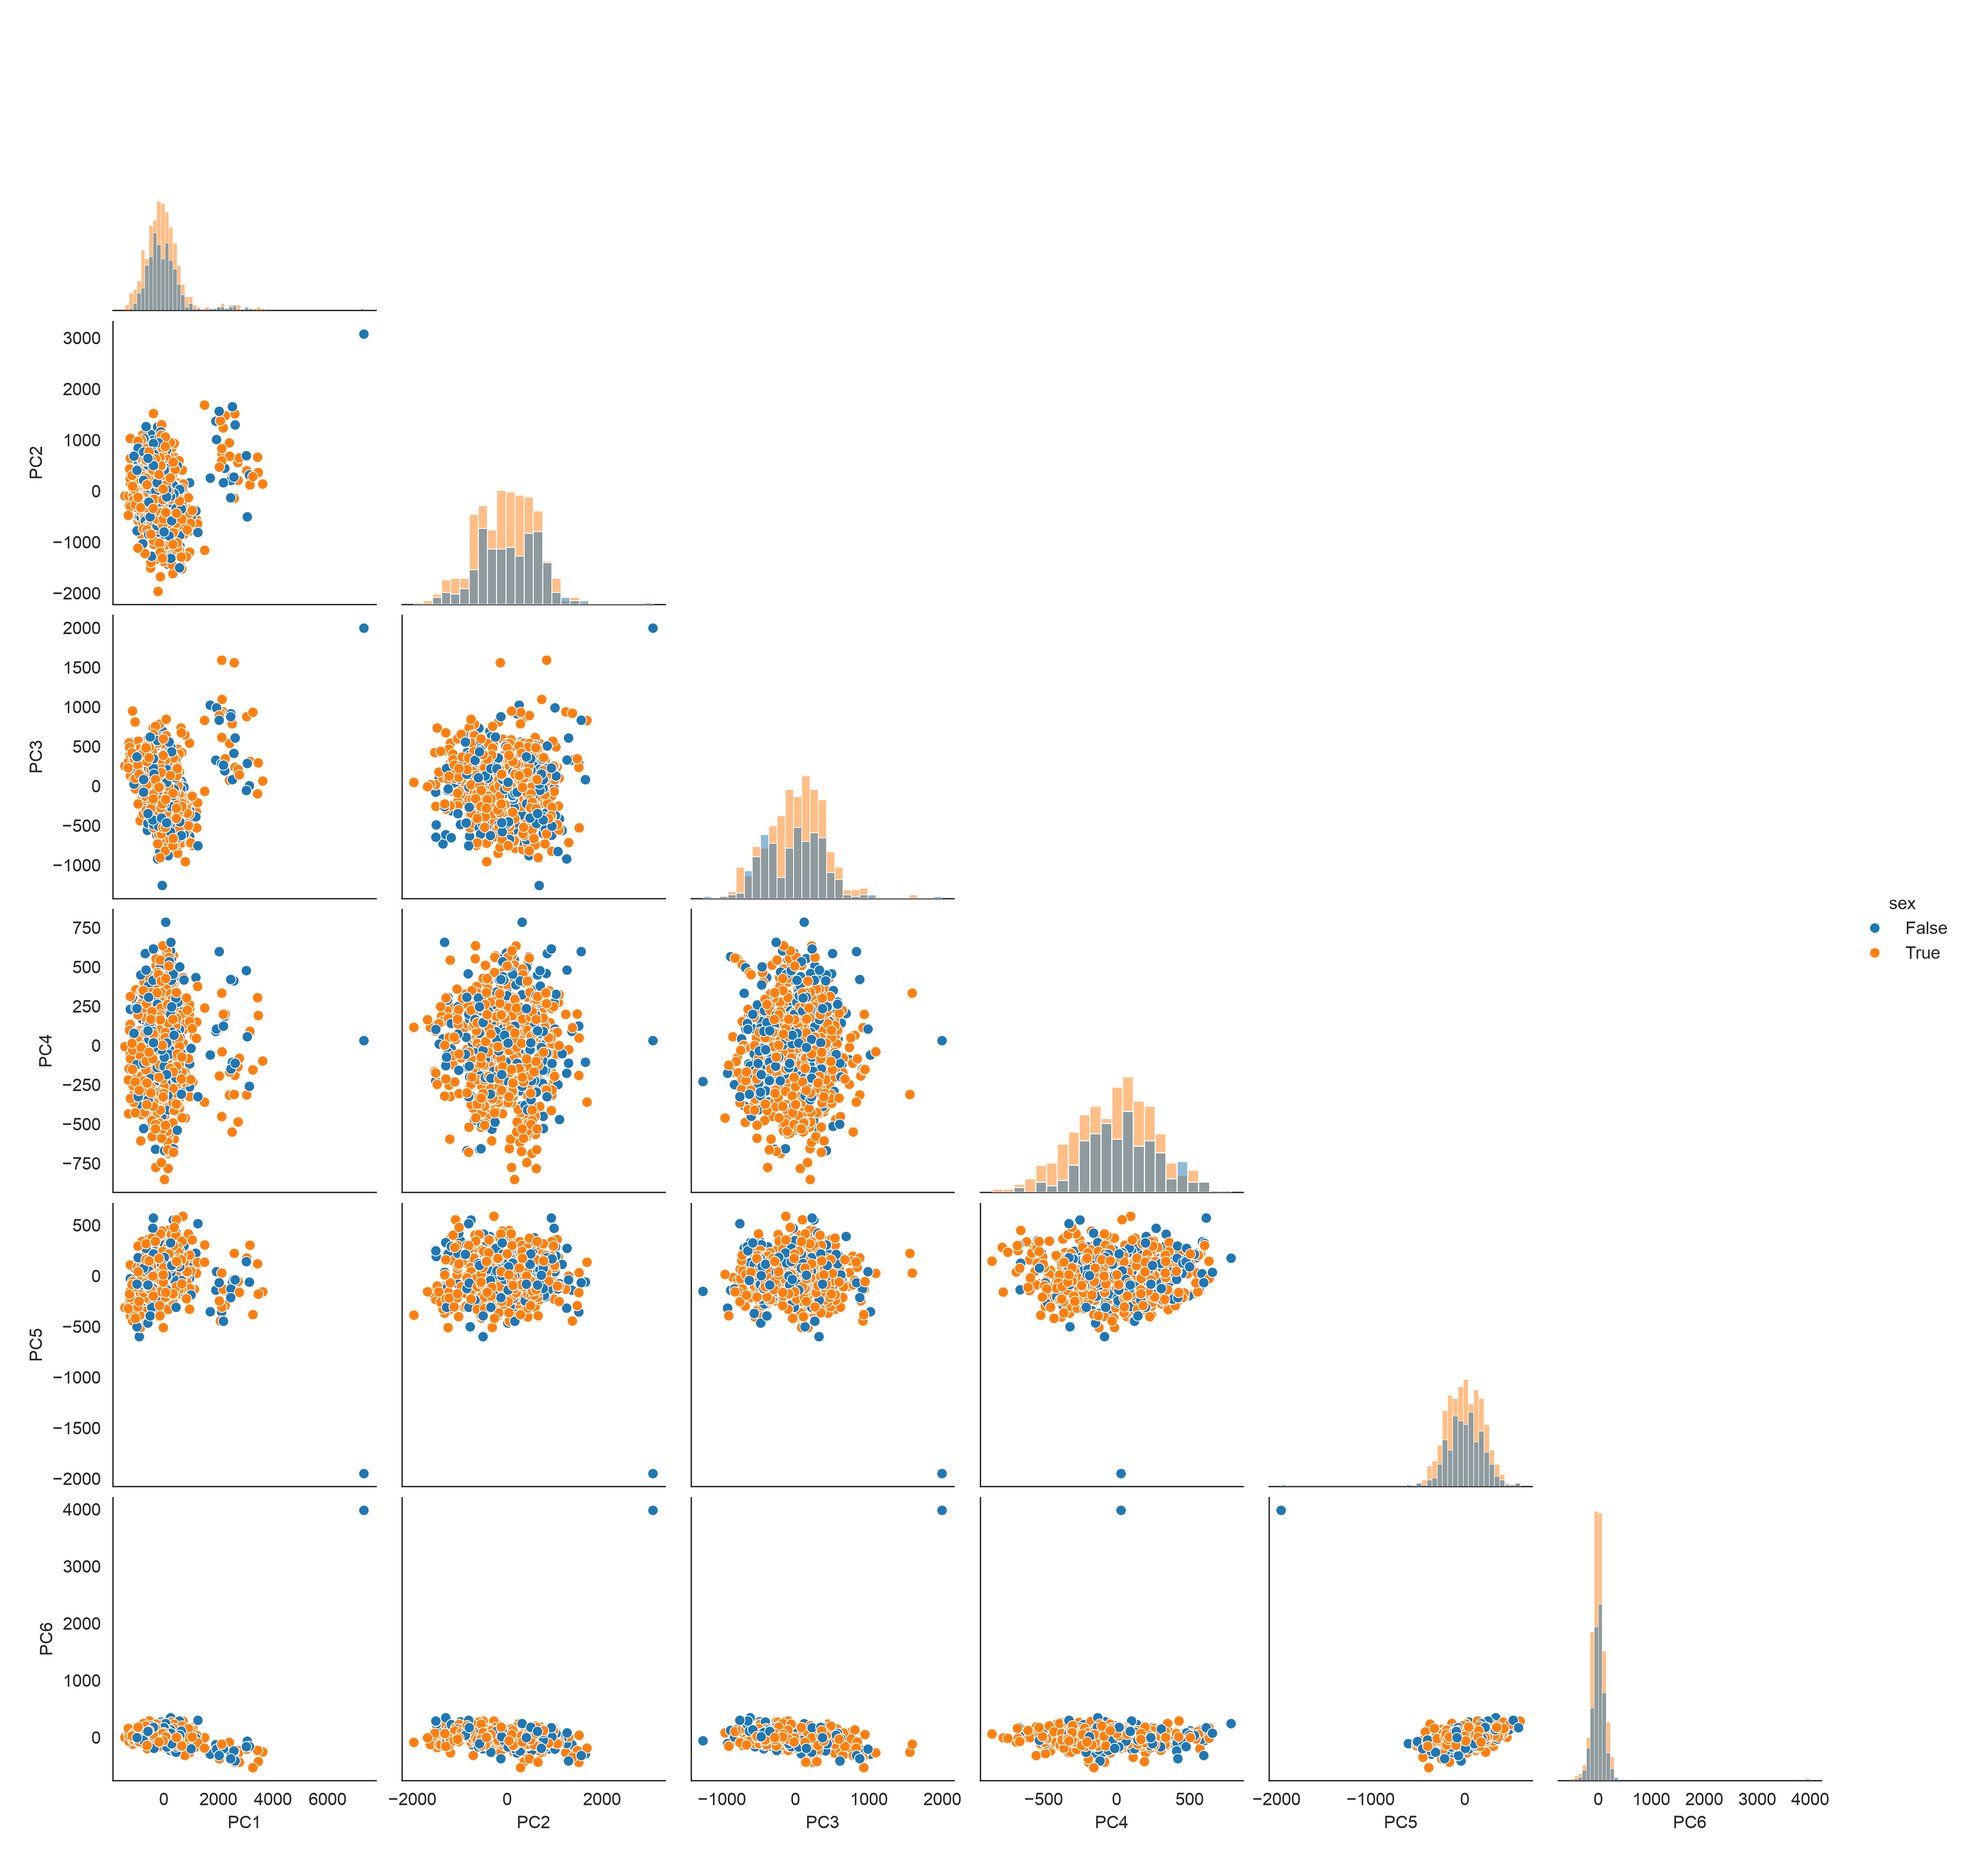
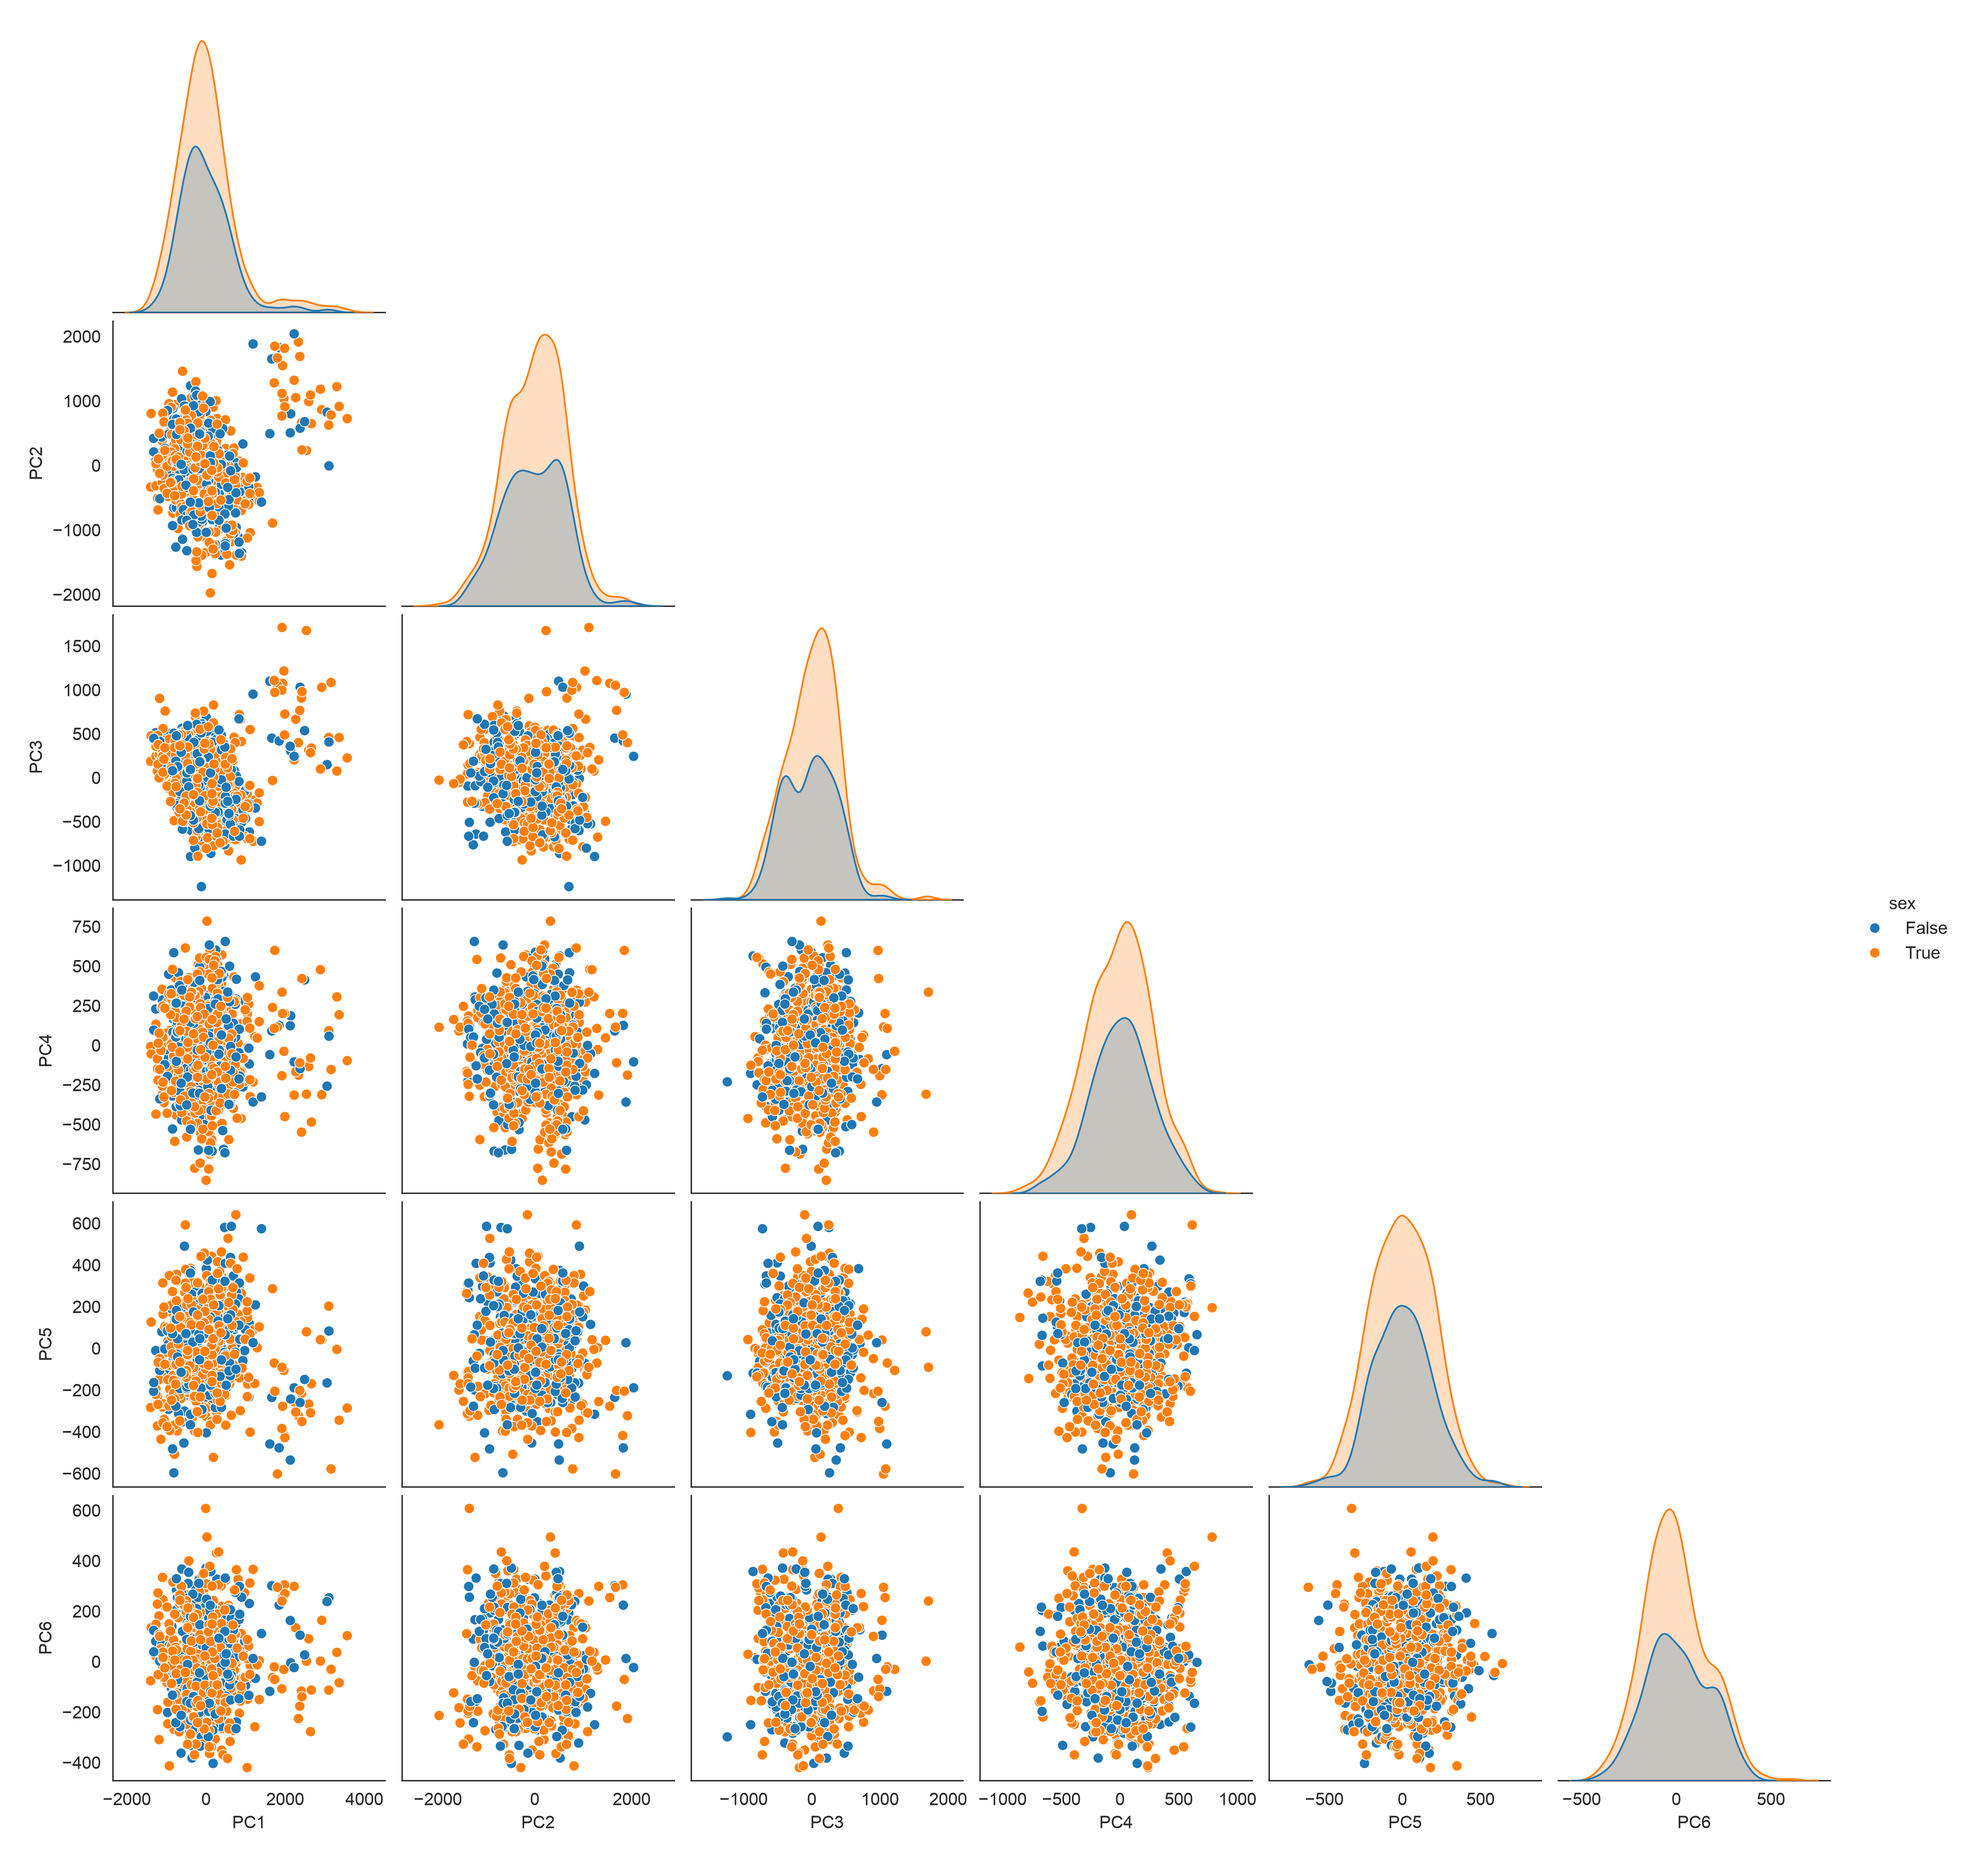
Additional PCA investigation. Outlier investigation on frame 0 PCA, PCA on temporal features (mean, std, etc of each point in all 10 frames).

diff --git a/notebooks/global_PCA.py b/notebooks/global_PCA.py
@@ -1,0 +1,101 @@
+import os
+import re
+import numpy as np
+import matplotlib.pyplot as plt
+import seaborn as sns
+import pandas as pd
+from sklearn.decomposition import PCA
+from sklearn.preprocessing import StandardScaler
+
+folder = "data/training_data/mixed_samples"
+files = sorted([f for f in os.listdir(folder) if f.endswith(".npy") and f != "658healthy.npy"], key=lambda f: int(re.match(r"\d+", f).group()))
+data = [np.load(os.path.join(folder, f)) for f in files]
+
+def extract_frame_features(frame):
+    xyz = frame[:, :3]
+    intensity = frame[:, 3]
+
+    mean_xyz = np.mean(xyz, axis=0)
+    std_xyz = np.std(xyz, axis=0)
+
+    centroid = mean_xyz
+    distances = np.linalg.norm(xyz - centroid, axis=1)
+
+    mean_distance = np.mean(distances)
+    std_distance = np.std(distances)
+
+    mean_intensity = np.mean(intensity)
+    std_intensity = np.std(intensity)
+
+    features = np.concatenate([
+        mean_xyz,                  
+        std_xyz,                   
+        [mean_distance],           
+        [std_distance],            
+        [mean_intensity],          
+        [std_intensity]            
+    ])
+
+    return features
+
+def extract_sample_features(sample):
+    frame_features = np.array([extract_frame_features(frame) for frame in sample[:10]])
+
+    temporal_differences = np.diff(frame_features,axis=0)
+
+    spatial_features = frame_features.flatten()
+
+    temporal_features = temporal_differences.flatten()
+
+    sample_features = np.concatenate([spatial_features, temporal_features])
+
+    return sample_features
+
+X = np.array([extract_sample_features(sample) for sample in data])
+
+y = np.array(["pMI" if "pMI" in f else "Non-pMI" for f in files])
+
+scaler = StandardScaler()
+X_scaled = scaler.fit_transform(X)
+
+pca = PCA(n_components=6)
+
+X_pca = pca.fit_transform(X_scaled)
+
+print("\nExplained variance ratios:")
+for i, variance in enumerate(pca.explained_variance_ratio_):
+    print(f"PC{i+1}: {variance*100:.2f}%")
+
+print(
+    f"\nTotal explained variance: "
+    f"{pca.explained_variance_ratio_.sum()*100:.2f}%"
+)
+
+pc_names = [f"PC{i+1}" for i in range(6)]
+
+df_pca = pd.DataFrame(X_pca, columns=pc_names)
+
+df_pca["Class"] = y
+
+sns.set_style("white")
+
+g = sns.pairplot(df_pca, vars=pc_names, hue="Class",
+    palette={"pMI": "red", "Non-pMI": "blue"},
+    plot_kws={"alpha": 0.6, "s": 20, "edgecolor": "none"},
+    diag_kws={"alpha": 0.5},
+    height=2.2,
+    corner=True)
+
+for i in range(6):
+    variance = pca.explained_variance_ratio_[i] * 100
+    g.axes[-1, i].set_xlabel(f"PC{i+1} ({variance:.1f}%)")
+
+    g.axes[i, 0].set_ylabel(f"PC{i+1} ({variance:.1f}%)")
+
+g.figure.suptitle(
+    "Sample-Level Temporal PCA (6 Components)", fontsize=16, y=1.02)
+
+g.savefig(
+    "results/sample_temporal_pca_pairplot.png", dpi=300, bbox_inches="tight")
+
+plt.show()

diff --git a/notebooks/658_investigation.py b/notebooks/658_investigation.py
@@ -1,0 +1,79 @@
+
+from matplotlib.animation import FuncAnimation
+import numpy as np
+import matplotlib.pyplot as plt
+import os
+import re
+
+folder = "data/training_data/mixed_samples"
+files = ["658healthy.npy"]
+data = [np.load(os.path.join(folder, f)) for f in files]
+
+n_frames = 10
+interval = 100  # 100 milliseconds, 10 FPS
+
+sampled_data = [
+    [d[frame][::5] for frame in range(n_frames)]
+    for d in data
+]
+
+fig = plt.figure(figsize=(15, 8))
+scatters = []
+
+for i, (f, d) in enumerate(zip(files, sampled_data)):
+    p = d[0]
+    ax = fig.add_subplot(2, 5, i + 1, projection="3d")
+    sc = ax.scatter(
+        p[:, 0],
+        p[:, 1],
+        p[:, 2],
+        c=p[:, 3],
+        s=0.5,
+        vmin=min(frame[:, 3].min() for frame in d),
+        vmax=max(frame[:, 3].max() for frame in d)
+    )
+    ax.set_title(
+        f[:-4],
+        color="red" if "pMI" in f else "black"
+    )
+    ax.set_axis_off()
+    all_points = np.concatenate(d, axis=0)
+    ax.set_xlim(all_points[:, 0].min(), all_points[:, 0].max())
+    ax.set_ylim(all_points[:, 1].min(), all_points[:, 1].max())
+    ax.set_zlim(all_points[:, 2].min(), all_points[:, 2].max())
+    scatters.append(sc)
+
+frame_text = fig.suptitle("Frame 1 / 10", fontsize=16)
+
+plt.tight_layout()
+
+def update(frame):
+    for sc, d in zip(scatters, sampled_data):
+        p = d[frame]
+        sc._offsets3d = (
+            p[:, 0],
+            p[:, 1],
+            p[:, 2]
+        )
+        sc.set_array(p[:, 3])
+    frame_text.set_text(f"Frame {frame + 1} / {n_frames}")
+    return scatters + [frame_text]
+
+ani = FuncAnimation(
+    fig,
+    update,
+    frames=range(n_frames),
+    interval=interval,
+    blit=False,
+    repeat=True,
+    cache_frame_data=False
+)
+
+ani.save(
+    "results/658_animation.gif",
+    writer="pillow",
+    fps=10,
+    dpi=100
+)
+
+plt.show()

diff --git a/notebooks/PCA_geom_indexed.py b/notebooks/PCA_geom_indexed.py
@@ -1,0 +1,51 @@
+# PCA of geometric point cloud
+
+import os
+import re
+import numpy as np
+import matplotlib.pyplot as plt
+from sklearn.decomposition import PCA
+import pandas as pd
+import seaborn as sns
+
+folder = "data/training_data/mixed_samples"
+files = [f for f in os.listdir(folder) if f.endswith(".npy")]
+files = sorted(files, key=lambda f: int(re.match(r"\d+", f).group()))
+
+files_dem = "data/training_data/mixed_demographics.csv"
+data_dem = pd.read_csv(files_dem)
+sex = data_dem["sex"]
+
+frame = 0  # try other frames from 0 to 9
+X = np.array([np.load(os.path.join(folder, f), mmap_mode="r")[frame, :, :3].ravel()for f in files])
+print("X shape:", X.shape) # Shape (900,54000)
+
+pca = PCA(n_components=6)
+X_pca = pca.fit_transform(X)
+print("X_pca shape:", X_pca.shape) # Shape (900,6)
+
+scores_df = pd.DataFrame(X_pca, columns=[f"PC{i+1}" for i in range(X_pca.shape[1])])
+scores_df["filename"] = files
+
+scores_df["label"] = scores_df["filename"].apply(
+    lambda filename: "pMI" if "pMI" in filename else "healthy"
+)
+
+sns.set_style("white")
+
+g = sns.pairplot(scores_df, corner=True)
+
+# Add index labels to each scatter plot
+for i in range(1, 6):
+    for j in range(i):
+        ax = g.axes[i, j]
+        for idx, row in scores_df.iterrows():
+            ax.annotate(
+                str(idx),
+                (row[f"PC{j+1}"], row[f"PC{i+1}"]),
+                fontsize=5,
+                alpha=0.7
+            )
+
+plt.savefig("results/pca_pairplot_sex_index.png", dpi=300)
+plt.show()

diff --git a/notebooks/PCA_geometric.py b/notebooks/PCA_geometric.py
@@ -6,9 +6,10 @@ import numpy as np
 import matplotlib.pyplot as plt
 from sklearn.decomposition import PCA
 import pandas as pd
+import seaborn as sns
 
 folder = "data/training_data/mixed_samples"
-files = [f for f in os.listdir(folder) if f.endswith(".npy")]
+files = [f for f in os.listdir(folder) if f.endswith(".npy") and f != "658healthy.npy"]
 files = sorted(files, key=lambda f: int(re.match(r"\d+", f).group()))
 
 files_dem = "data/training_data/mixed_demographics.csv"
@@ -24,9 +25,6 @@ pca = PCA(n_components=6)
 X_pca = pca.fit_transform(X)
 print("X_pca shape:", X_pca.shape) # Shape (900,6)
 
-import seaborn as sns
-
-
 scores_df = pd.DataFrame(X_pca, columns=[f"PC{i+1}" for i in range(X_pca.shape[1])])
 scores_df["filename"] = files
 
@@ -36,8 +34,7 @@ scores_df["label"] = scores_df["filename"].apply(
 
 scores_df["sex"] = sex
 
-
 sns.set_style("white")
-sns.pairplot(scores_df, hue="sex", diag_kind="hist", corner =True)
+sns.pairplot(scores_df, hue="sex", corner=True)
 plt.savefig("results/pca_pairplot_sex.png", dpi=300)
 plt.show()

diff --git a/notebooks/geometric_data.py b/notebooks/geometric_data.py
@@ -41,5 +41,3 @@ for i, (f, d) in enumerate(zip(files, data)):
 plt.tight_layout()
 plt.savefig("results/first_timestep_10_samples.png", dpi=300)
 plt.show()
-
-
